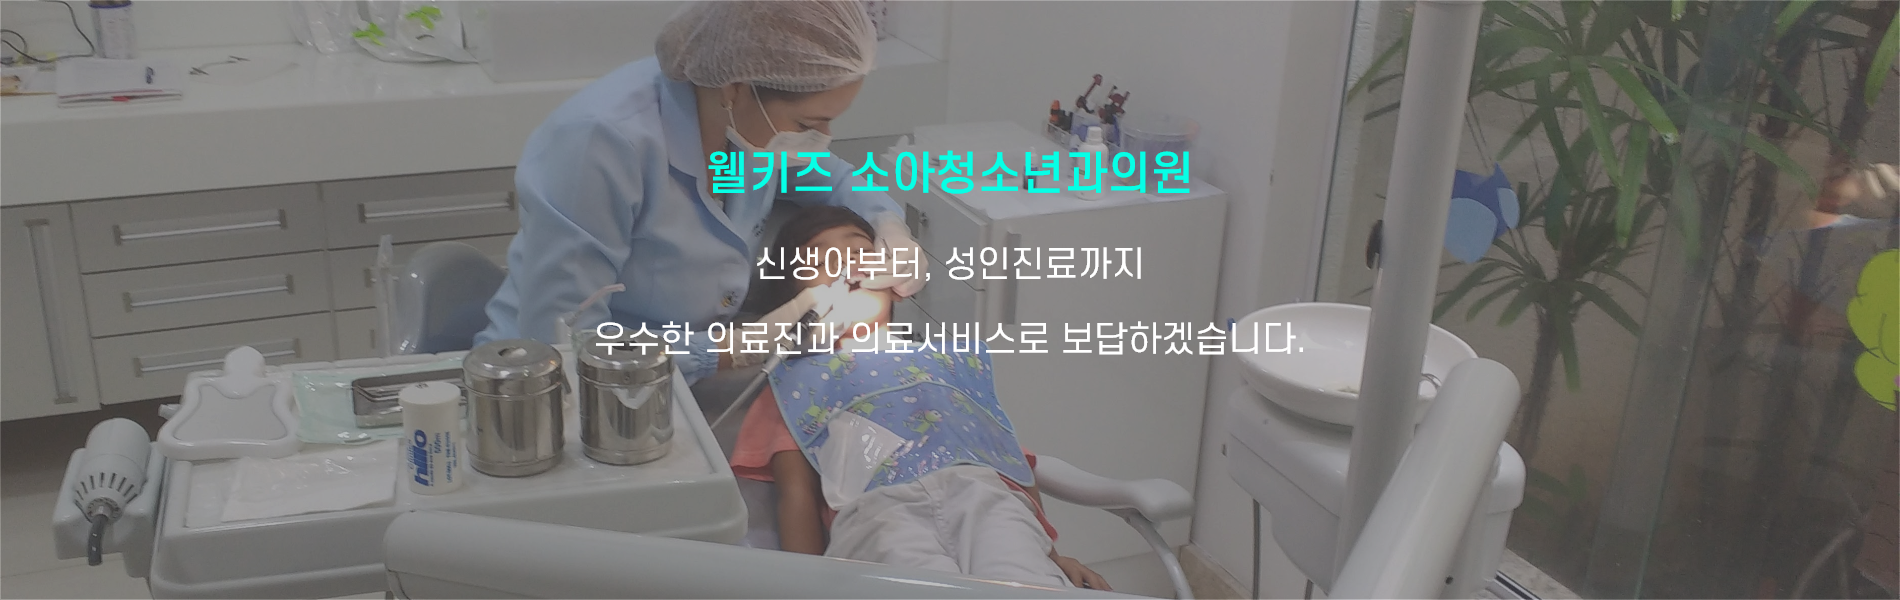
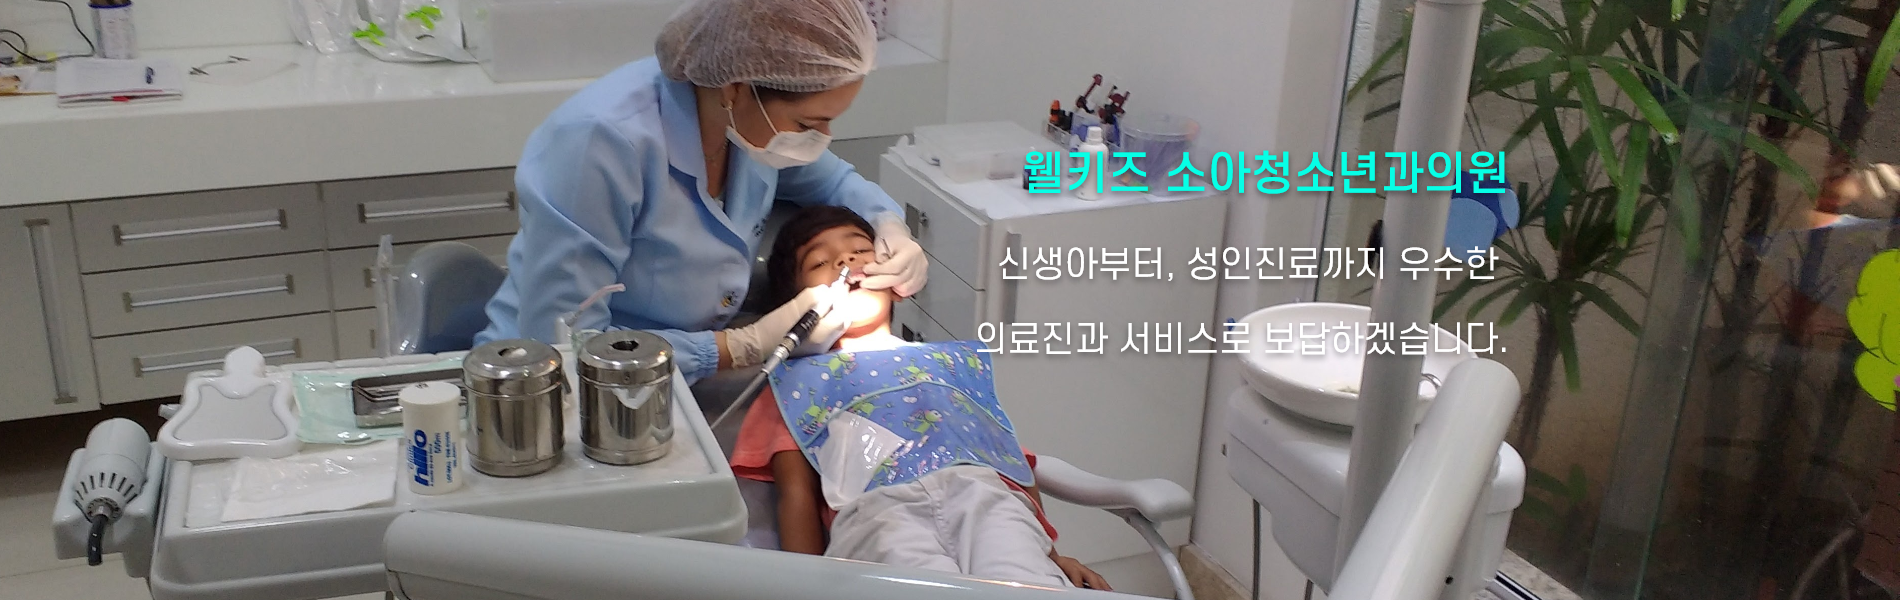
123

diff --git a/well_kids/index.html b/well_kids/index.html
@@ -39,14 +39,14 @@
   <!-- 메인 시작 -->
   <div class="main wrap">
     <img src="./images/main-image.png" alt="">
-    <a href=""><img src="./images/main_btn.png" alt="" class="main_btn"></a>
+    <a href="../well_kids/sub/index.html"><img src="./images/main_btn.png" alt="" class="main_btn"></a>
   </div>
   <!-- 메인 끝 -->
 
   <!-- 아티클 1번 시작 -->
   <div class="art1 inner">
     <div class="title_sub">
-      <span>웰키즈 소아 청소년과</span>
+      <span>Pediatrics & adolescents</span>
     </div>
     <div class="title">
       <span>항상 열려있는 우리 가족 <span class="title_point"> 안심병원</span></span>

diff --git a/well_kids/css/main.css b/well_kids/css/main.css
@@ -130,7 +130,7 @@ nav ul li a {
 
 .main .main_btn {
   position: absolute;
-  left: 855px;
+  right: 390px;
   bottom: 100px;
 }
 
